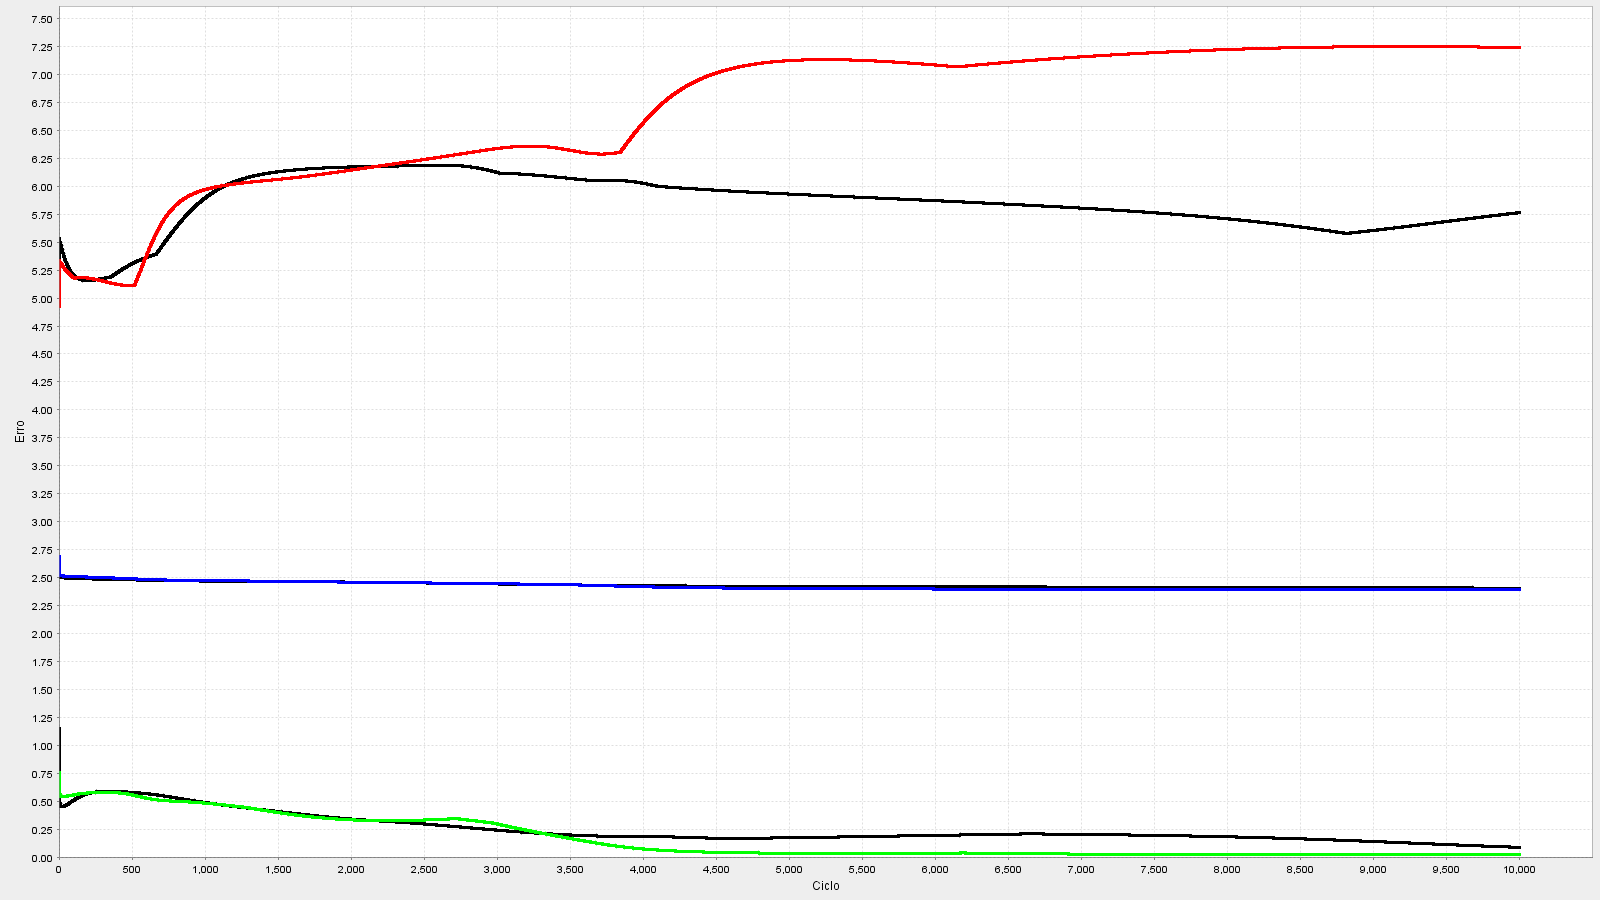
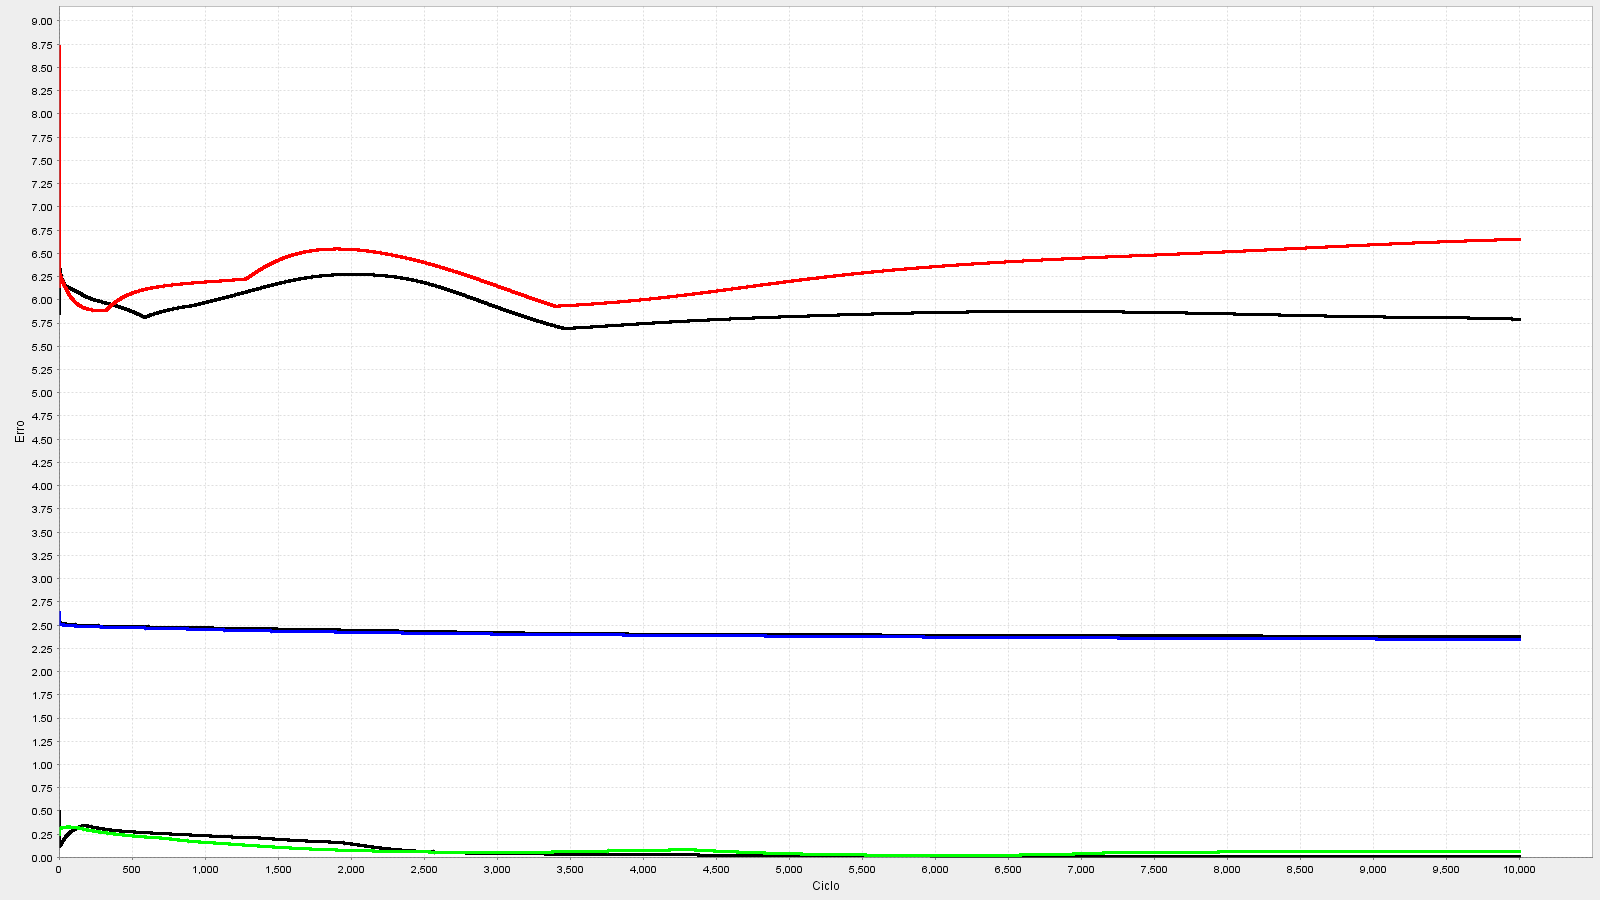
Fechamento do ApplicationErrorAnalisys
Agora é só brincar com os parâmetros q validam ou não os resultados..

diff --git a/src/main/java/resolvers/ApplicationErrorAnalysis.java b/src/main/java/resolvers/ApplicationErrorAnalysis.java
@@ -12,22 +12,22 @@ public class ApplicationErrorAnalysis {
 	private int numberOfWinSuccessPredictions = 0;
 	private int numberOfDrawSuccessPredictions = 0;
 	private int numberOfLoseSuccessPredictions = 0;
-	private int numberOfWinResults = 0;
-	private int numberOfDrawResults = 0;
-	private int numberOfLoseResults = 0;
+	private int numberOfValidWinResults = 0;
+	private int numberOfValidDrawResults = 0;
+	private int numberOfValidLoseResults = 0;
 
 	public ApplicationErrorAnalysis(double confidenceInterval, double[][] lastLayerOutMatrix, double[][] target) {
 		int[][] predictionMatrix = setPrediction(lastLayerOutMatrix);
 		int[][] validationMatrix = setValidation(predictionMatrix, lastLayerOutMatrix);
-		int[][] correctPredictionsMatrix = setResultsMatrix(predictionMatrix, validationMatrix, target);
-		checkResult(correctPredictionsMatrix, target, validationMatrix);
+//		int[][] correctPredictionsMatrix = setResultsMatrix(predictionMatrix, validationMatrix, target);
+		checkResult(predictionMatrix, target, validationMatrix);
 		
-
-		setWinSuccessRatio((double) getNumberOfSuccessWinPredictions() / (double) getNumberOfWinPrediction());
-		setDrawSuccessRatio((double) getNumberOfSuccessDrawPredictions() / (double) getNumberOfDrawPrediction());
-		setLoseSuccessRatio((double) getNumberOfSuccessLosePredictions() / (double) getNumberOfLosePrediction());
+		System.out.println("Number of Valid Results :" + (getNumberOfValidWinResults() + getNumberOfValidDrawResults() + getNumberOfValidLoseResults()));
+		setWinSuccessRatio((double) getNumberOfSuccessWinPredictions() / (double) getNumberOfValidWinResults());
+		setDrawSuccessRatio((double) getNumberOfSuccessDrawPredictions() / (double) getNumberOfValidDrawResults());
+		setLoseSuccessRatio((double) getNumberOfSuccessLosePredictions() / (double) getNumberOfValidLoseResults());
 		setOverallSuccessRatio((double) (getNumberOfSuccessWinPredictions() + getNumberOfSuccessDrawPredictions() + getNumberOfSuccessLosePredictions())
-				/ (double) (getNumberOfWinPrediction() + getNumberOfDrawPrediction() + getNumberOfLosePrediction()));
+				/ (double) (getNumberOfValidWinResults() + getNumberOfValidDrawResults() + getNumberOfValidLoseResults()));
 	}
 
 	private int[][] setPrediction(double[][] lastLayerOut) {
@@ -41,7 +41,7 @@ public class ApplicationErrorAnalysis {
 			else if (predictionIsLose(lastLayerOut, l))
 				predictionMatrix[2][l] = 1;
 		}
-		
+
 		return predictionMatrix;
 	}
 	
@@ -128,41 +128,40 @@ public class ApplicationErrorAnalysis {
 	}
 	private int validateResult(double[][] probabilities, double[] averageOfProbabilities, double[] stdOfProbabilities, int condition, int epoch) {
 
-		if (probabilities[condition][epoch] >= 1 && probabilities[condition][epoch] > (averageOfProbabilities[condition] + stdOfProbabilities[condition])) {
+		if (probabilities[condition][epoch] >= .65 && probabilities[condition][epoch] > (averageOfProbabilities[condition] - 0.5 * stdOfProbabilities[condition])) {
 			return 1;
 		}
 		return 0;
 	}
 	
 	
-	private int[][] setResultsMatrix(int[][] predictionMatrix, int[][] validationMatrix, double[][] target) {
-		int[][] resultsMatrix = new int[target.length][target[0].length];
-		for (int l = 0; l < target[0].length; l++) {
-			for (int i = 0; i < target.length; i++) {
-				if (predictionMatrix[i][l] == 1 && validationMatrix[i][l] == 1 && target[i][l] == 1)
-					resultsMatrix[i][l] = 1;
-			}
-		}
-		
-		return resultsMatrix;
-	}
+//	private int[][] setResultsMatrix(int[][] predictionMatrix, int[][] validationMatrix, double[][] target) {
+//		int[][] resultsMatrix = new int[target.length][target[0].length];
+//		for (int l = 0; l < target[0].length; l++) {
+//			for (int i = 0; i < target.length; i++) {
+//				if (predictionMatrix[i][l] == 1 && validationMatrix[i][l] == 1 && target[i][l] == 1)
+//					resultsMatrix[i][l] = 1;
+//			}
+//		}
+//		
+//		return resultsMatrix;
+//	}
 	
-	
-	private void checkResult(int[][] correctPredictionsMatrix, double[][] target, int[][] validationMatrix) {
+	private void checkResult(int[][] predictionsMatrix, double[][] target, int[][] validationMatrix) {
 		for (int l = 0; l < target[0].length; l++) {
 			if (target[0][l] == 1 && validationMatrix[0][l] == 1) {
-				setNumberOfWinResults(getNumberOfWinResults() + 1);
-				if (correctPredictionsMatrix[0][l] == 1)
+				setNumberOfValidWinResults(getNumberOfValidWinResults() + 1);
+				if (predictionsMatrix[0][l] == 1)
 					setNumberOfSuccessWinPredictions(getNumberOfSuccessWinPredictions() + 1);
 			}
 			if (target[1][l] == 1 && validationMatrix[1][l] == 1) {
-				setNumberOfDrawResults(getNumberOfDrawResults() + 1);
-				if (correctPredictionsMatrix[1][l] == 1)
+				setNumberOfValidDrawResults(getNumberOfValidDrawResults() + 1);
+				if (predictionsMatrix[1][l] == 1)
 					setNumberOfSuccessDrawPredictions(getNumberOfSuccessDrawPredictions() + 1);
 			}
 			if (target[2][l] == 1 && validationMatrix[2][l] == 1) {
-				setNumberOfLoseResults(getNumberOfLoseResults() + 1);
-				if (correctPredictionsMatrix[2][l] == 1)
+				setNumberOfValidLoseResults(getNumberOfValidLoseResults() + 1);
+				if (predictionsMatrix[2][l] == 1)
 					setNumberOfSuccessLosePredictions(getNumberOfSuccessLosePredictions() + 1);
 			}
 		}
@@ -224,28 +223,28 @@ public class ApplicationErrorAnalysis {
 		this.numberOfLosePrediction = numberOfLosePrediction;
 	}
 
-	public int getNumberOfWinResults() {
-		return numberOfWinResults;
+	public int getNumberOfValidWinResults() {
+		return numberOfValidWinResults;
 	}
 
-	public void setNumberOfWinResults(int numberOfWinResults) {
-		this.numberOfWinResults = numberOfWinResults;
+	public void setNumberOfValidWinResults(int numberOfValidWinResults) {
+		this.numberOfValidWinResults = numberOfValidWinResults;
 	}
 
-	public int getNumberOfDrawResults() {
-		return numberOfDrawResults;
+	public int getNumberOfValidDrawResults() {
+		return numberOfValidDrawResults;
 	}
 
-	public void setNumberOfDrawResults(int numberOfDrawResults) {
-		this.numberOfDrawResults = numberOfDrawResults;
+	public void setNumberOfValidDrawResults(int numberOfValidDrawResults) {
+		this.numberOfValidDrawResults = numberOfValidDrawResults;
 	}
 
-	public int getNumberOfLoseResults() {
-		return numberOfLoseResults;
+	public int getNumberOfValidLoseResults() {
+		return numberOfValidLoseResults;
 	}
 
-	public void setNumberOfLoseResults(int numberOfLoseResults) {
-		this.numberOfLoseResults = numberOfLoseResults;
+	public void setNumberOfValidLoseResults(int numberOfLoseResults) {
+		this.numberOfValidLoseResults = numberOfLoseResults;
 	}
 
 	public int getNumberOfSuccessWinPredictions() {
